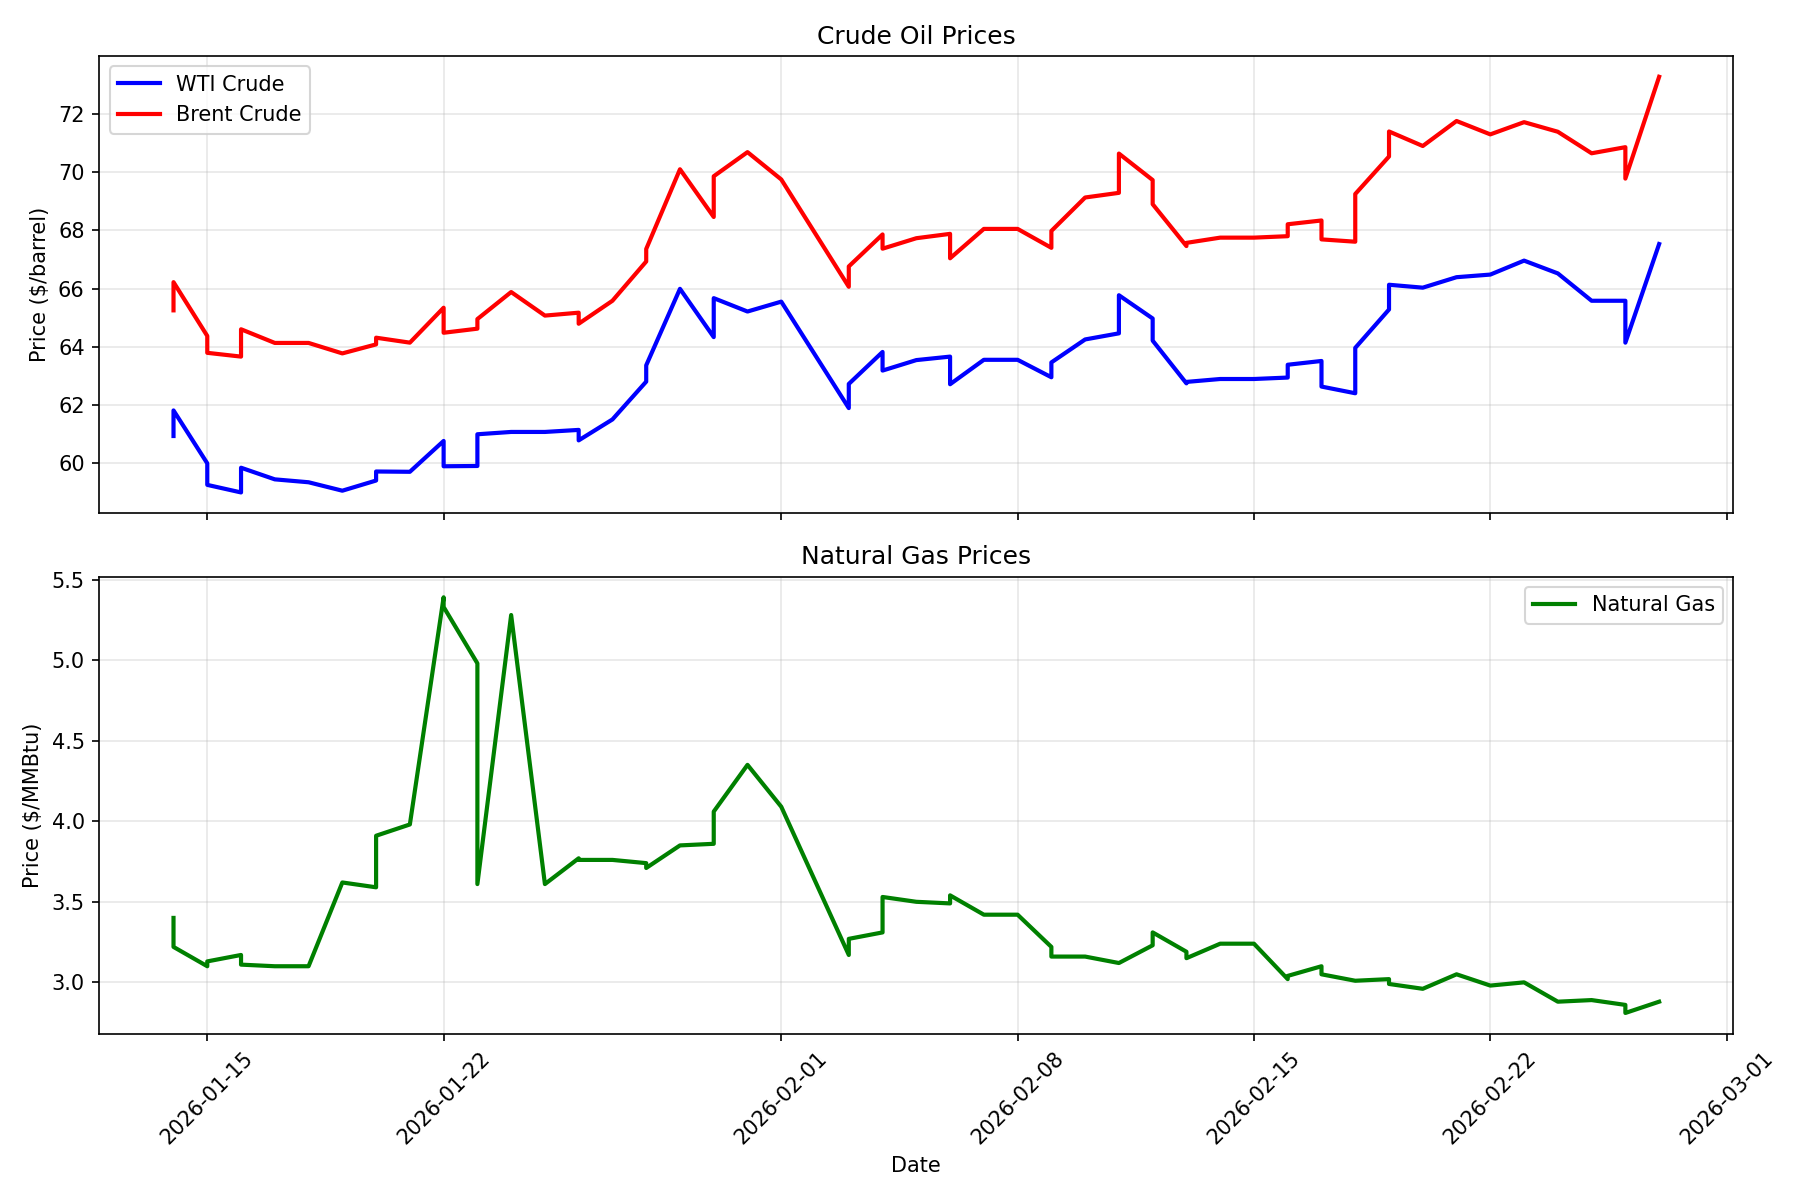
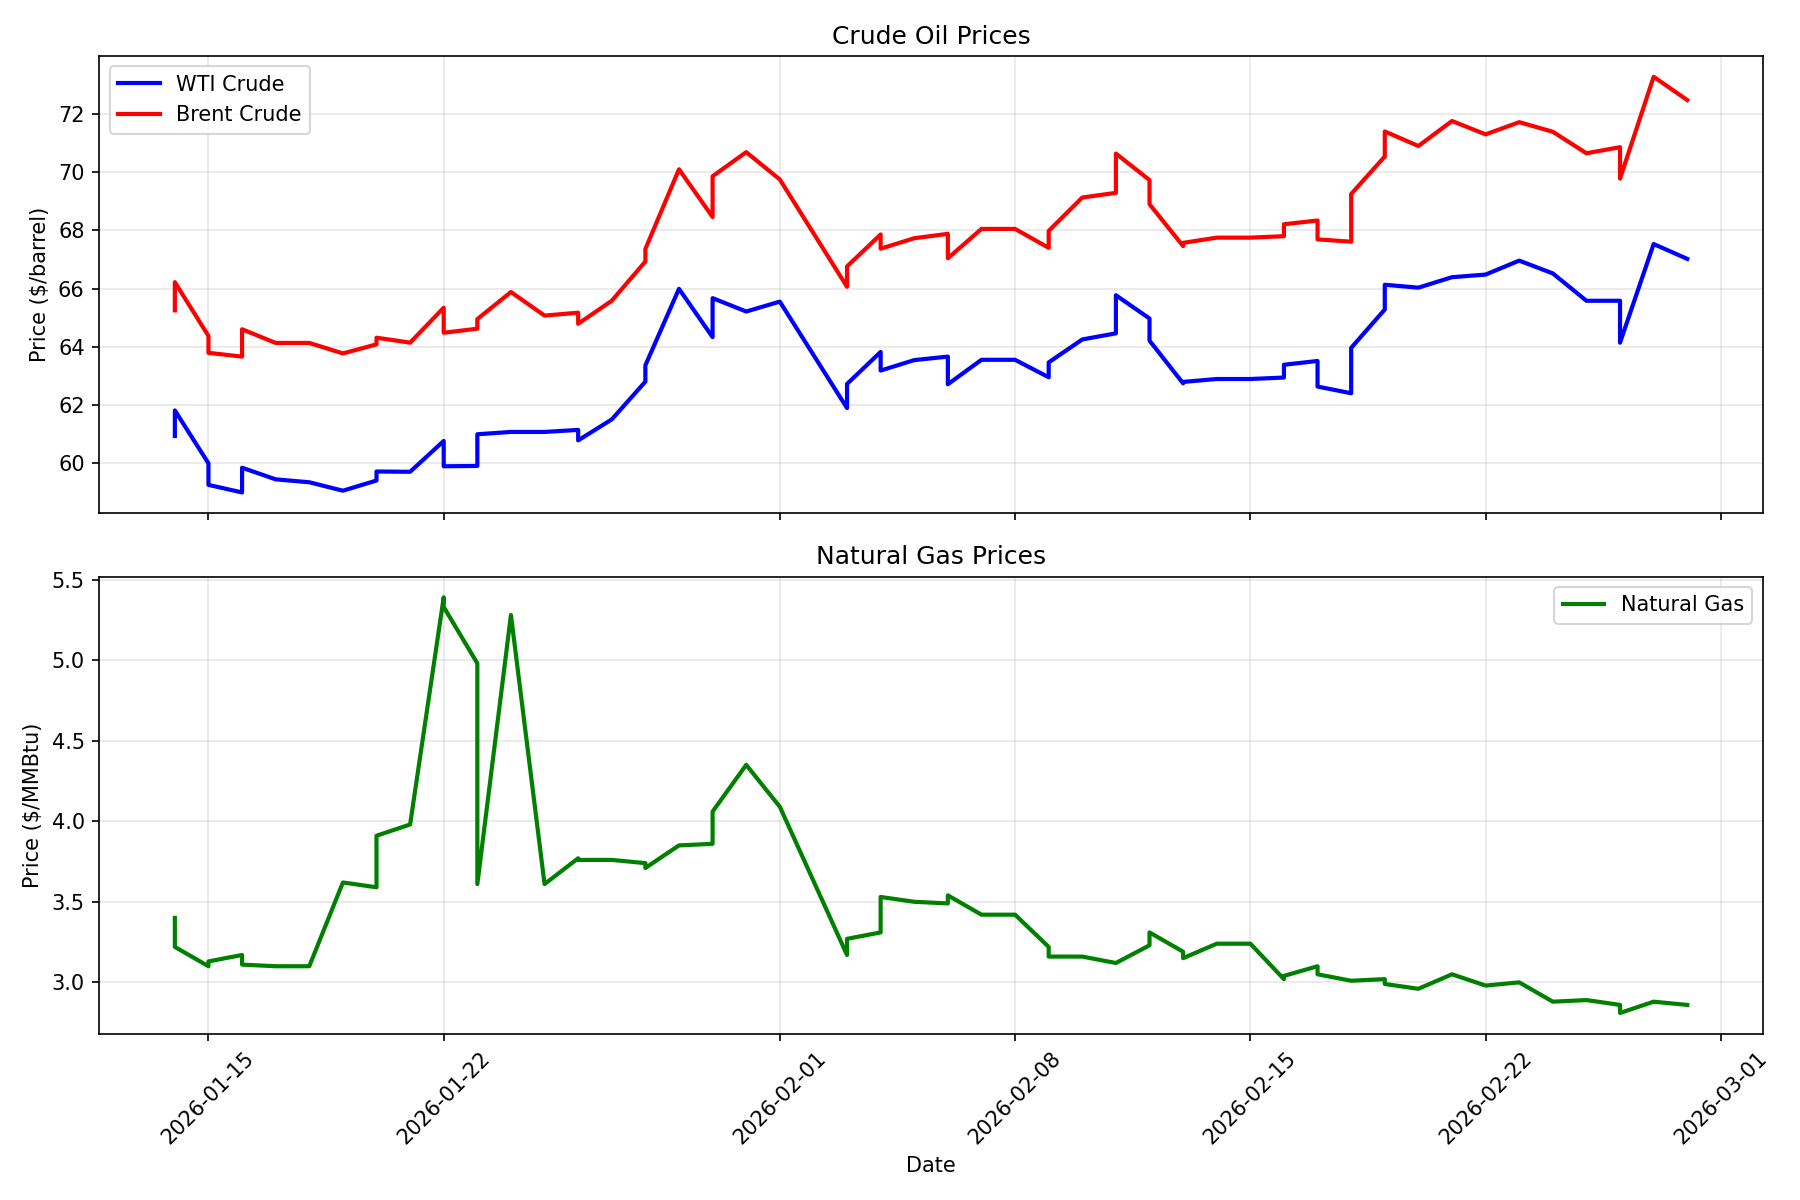
Daily price update: 2026-02-28

diff --git a/README.md b/README.md
@@ -2,29 +2,29 @@
 
 Automated daily tracking of chemical commodity prices and chemical company stocks.
 
-## Latest Prices (Updated: 2026-02-27)
+## Latest Prices (Updated: 2026-02-28)
 
 ### Energy Commodities
 
 | Commodity | Price | Change (24h) | Unit |
 |-----------|-------|--------------|------|
-| WTI Crude Oil | $67.53 | +2.32 (+3.56%) | $/barrel |
-| Brent Crude Oil | $73.28 | +2.53 (+3.58%) | $/barrel |
-| Natural Gas | $2.88 | +0.05 (+1.80%) | $/MMBtu |
-| Heating Oil | $2.61 | -0.01 (-0.23%) | $/gallon |
+| WTI Crude Oil | $67.02 | +1.81 (+2.78%) | $/barrel |
+| Brent Crude Oil | $72.48 | +1.73 (+2.45%) | $/barrel |
+| Natural Gas | $2.86 | +0.03 (+1.13%) | $/MMBtu |
+| Heating Oil | $2.67 | +0.06 (+2.24%) | $/gallon |
 
 ### Chemical Company Stocks
 
 | Company | Ticker | Price | Change (24h) |
 |---------|--------|-------|--------------|
-| Dow Inc. | DOW | $29.51 | -0.39 (-1.29%) |
-| LyondellBasell | LYB | $56.40 | +0.10 (+0.19%) |
-| DuPont | DD | $49.87 | -0.48 (-0.95%) |
-| Air Products | APD | $275.81 | -0.42 (-0.15%) |
-| Linde | LIN | $500.98 | +2.47 (+0.50%) |
-| Eastman Chemical | EMN | $74.57 | -0.65 (-0.87%) |
-| Celanese | CE | $48.33 | -0.80 (-1.63%) |
-| Huntsman | HUN | $11.94 | -0.03 (-0.29%) |
+| Dow Inc. | DOW | $30.73 | +1.18 (+3.99%) |
+| LyondellBasell | LYB | $57.52 | +1.22 (+2.17%) |
+| DuPont | DD | $50.04 | -0.31 (-0.62%) |
+| Air Products | APD | $275.67 | -0.56 (-0.20%) |
+| Linde | LIN | $508.08 | +9.57 (+1.92%) |
+| Eastman Chemical | EMN | $75.51 | +0.29 (+0.39%) |
+| Celanese | CE | $49.94 | +0.81 (+1.65%) |
+| Huntsman | HUN | $12.65 | +0.68 (+5.68%) |
 
 ## Data Sources
 

diff --git a/logs/update_log.md b/logs/update_log.md
@@ -85,3 +85,4 @@ Daily updates to the chemical engineering data repository.
 - **2026-02-26 00:00:06**: Updated 4 energy prices, 8 stocks, 0 FRED series
 - **2026-02-26 14:41:49**: Updated 4 energy prices, 8 stocks, 0 FRED series
 - **2026-02-27 14:32:56**: Updated 4 energy prices, 8 stocks, 0 FRED series
+- **2026-02-28 14:13:15**: Updated 4 energy prices, 8 stocks, 0 FRED series
